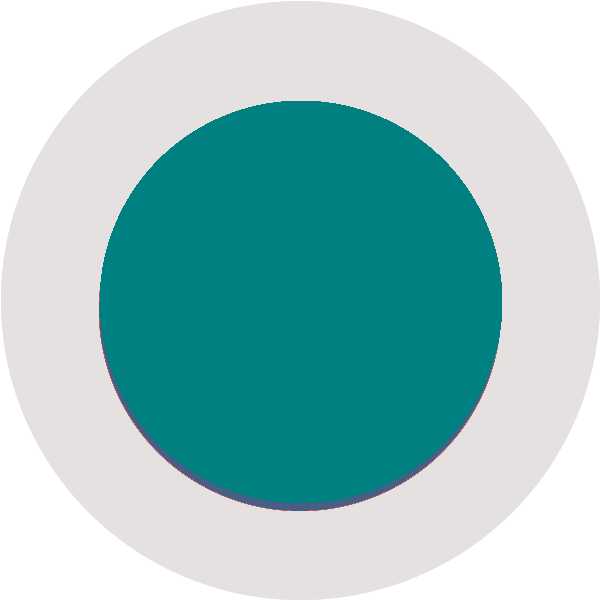
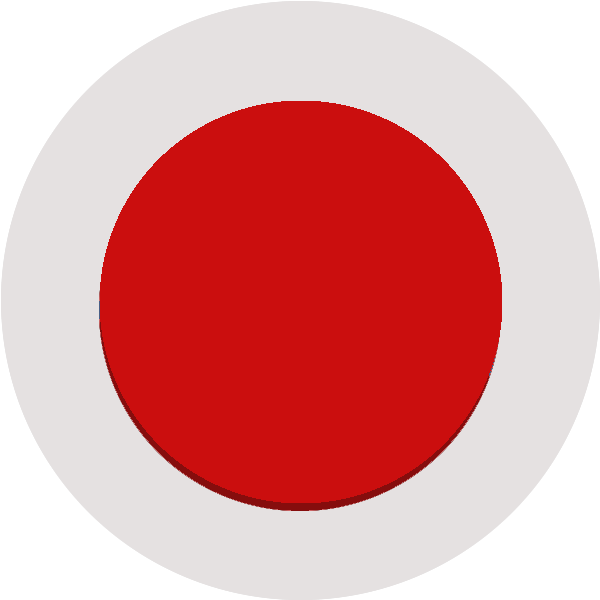
feat(major UI redesign) - change up waliif to not be similar to Safe

diff --git a/lib/controller/dialogs/trip_summary_dialog.dart b/lib/controller/dialogs/trip_summary_dialog.dart
@@ -1,5 +1,6 @@
 import 'package:flutter/material.dart';
 import 'package:safe/controller/ui_helpers.dart';
+import 'package:safe/models/color_constants.dart';
 import 'package:safe/models/ride_request.dart';
 import 'package:safe/utils/alpha_numeric_utils.dart';
 import 'package:flutter_gen/gen_l10n/safe_localizations.dart';
@@ -53,7 +54,7 @@ class _TripCompletionDialogState extends State<TripCompletionDialog> {
         SizedBox(height: 10.0),
         Row(
           children: [
-            Icon(Icons.location_on, color: Colors.orangeAccent),
+            Icon(Icons.location_on, color: ColorConstants.gucciColor),
             SizedBox(width: 15.0),
             Text(
               widget.rideRequest.pickup_address_name,
@@ -68,7 +69,7 @@ class _TripCompletionDialogState extends State<TripCompletionDialog> {
         SizedBox(height: 10.0),
         Row(
           children: [
-            Icon(Icons.location_on, color: Colors.orangeAccent),
+            Icon(Icons.location_on, color: ColorConstants.gucciColor),
             SizedBox(width: 15.0),
             Text(
               widget.rideRequest.dropoff_address_name,
@@ -103,7 +104,7 @@ class _TripCompletionDialogState extends State<TripCompletionDialog> {
         Row(
           mainAxisAlignment: MainAxisAlignment.spaceBetween,
           children: [
-            Icon(Icons.location_on, color: Colors.orangeAccent),
+            Icon(Icons.location_on, color: ColorConstants.gucciColor),
             SizedBox(width: 5.0),
             Text(
               SafeLocalizations.of(context)!
@@ -125,7 +126,7 @@ class _TripCompletionDialogState extends State<TripCompletionDialog> {
         Row(
           mainAxisAlignment: MainAxisAlignment.spaceBetween,
           children: [
-            Icon(Icons.timer, color: Colors.orangeAccent),
+            Icon(Icons.timer, color: ColorConstants.gucciColor),
             SizedBox(width: 5.0),
             Text(
               SafeLocalizations.of(context)!.dialog_trip_summary_ride_time,
@@ -147,7 +148,7 @@ class _TripCompletionDialogState extends State<TripCompletionDialog> {
         Row(
           mainAxisAlignment: MainAxisAlignment.spaceBetween,
           children: [
-            Icon(Icons.attach_money_outlined, color: Colors.orangeAccent),
+            Icon(Icons.attach_money_outlined, color: ColorConstants.gucciColor),
             SizedBox(width: 5.0),
             Text(
               SafeLocalizations.of(context)!
@@ -184,7 +185,7 @@ class _TripCompletionDialogState extends State<TripCompletionDialog> {
         children: [
           // Dialog Header
           Container(
-            color: Colors.teal.shade600,
+            color: Colors.black,
             padding: EdgeInsets.symmetric(vertical: 16.0),
             child: Center(
               child: Text(
@@ -219,7 +220,7 @@ class _TripCompletionDialogState extends State<TripCompletionDialog> {
                           TripCompletionDialog.DIALOG_RESULT_OKAY_PRESSED);
                     },
                     style: ElevatedButton.styleFrom(
-                        primary: Colors.deepOrangeAccent),
+                        primary: ColorConstants.gucciColor),
                     child: Container(
                       padding: EdgeInsets.symmetric(vertical: 16.0),
                       width: double.infinity,

diff --git a/lib/controller/bottom_sheets/base_bottom_sheet.dart b/lib/controller/bottom_sheets/base_bottom_sheet.dart
@@ -20,7 +20,7 @@ abstract class BaseBottomSheet extends StatefulWidget {
     this.fixedToBottom = false,
   }) : super(key: key);
 
-  double bottomSheetHeight();
+  double bottomSheetHeight(BuildContext context);
 
   double topCornerRadius();
 
@@ -41,18 +41,8 @@ abstract class BaseBottomSheet extends StatefulWidget {
     double padding = screenWidth * 0.02; // 2% of screen width
     double offset = fixedToBottom || (showBottomSheet == false) ? 0 : padding;
 
-    BorderRadius radius;
-
-    if (fixedToBottom) {
-      radius = BorderRadius.only(
-          topLeft: Radius.circular(topCornerRadius()),
-          topRight: Radius.circular(topCornerRadius()));
-    } else {
-      radius = BorderRadius.all(Radius.circular(topCornerRadius()));
-    }
-
     return Positioned(
-      bottom: offset * 2.5,
+      bottom: offset * 1.5,
       left: offset,
       right: offset,
       child: AnimatedSize(
@@ -60,12 +50,11 @@ abstract class BaseBottomSheet extends StatefulWidget {
         curve: Curves.bounceIn,
         duration: Duration(milliseconds: animationDuration()),
         child: Container(
-          height: showBottomSheet ? bottomSheetHeight() : 0,
+          height: showBottomSheet ? bottomSheetHeight(context) : 0,
           decoration: (showBottomSheet == false)
               ? null
               : BoxDecoration(
                   color: Colors.white,
-                  borderRadius: radius,
                   boxShadow: [
                     BoxShadow(
                       color: Colors.grey.shade500,

diff --git a/lib/controller/bottom_sheets/select_dropoff_pin.dart b/lib/controller/bottom_sheets/select_dropoff_pin.dart
@@ -5,6 +5,7 @@ import 'package:provider/provider.dart';
 import 'package:safe/controller/bottom_sheets/base_bottom_sheet.dart';
 import 'package:safe/controller/bottom_sheets/destination_picker_bottom_sheet.dart';
 import 'package:safe/models/address.dart';
+import 'package:safe/models/color_constants.dart';
 import 'package:safe/models/google_place_description.dart';
 import 'package:safe/pickup_and_dropoff_locations.dart';
 import 'package:safe/utils/google_api_util.dart';
@@ -36,8 +37,8 @@ class SelectDropOffPinBottomSheet extends BaseBottomSheet {
         );
 
   @override
-  double bottomSheetHeight() {
-    return DestinationPickerBottomSheet.HEIGHT_DESTINATION_SELECTOR;
+  double bottomSheetHeight(BuildContext context) {
+    return MediaQuery.of(context).size.height;
   }
 
   @override
@@ -197,7 +198,7 @@ class _SetPickupBottomSheet extends BaseBottomSheet {
         ) {}
 
   @override
-  double bottomSheetHeight() {
+  double bottomSheetHeight(BuildContext context) {
     return HEIGHT_SET_PICKUP;
   }
 
@@ -270,7 +271,7 @@ class _SetPickupBottomSheetState extends State<_SetPickupBottomSheet>
             style: TextButton.styleFrom(
               padding: EdgeInsets.symmetric(horizontal: 45.0, vertical: 20.0),
               backgroundColor: widget.destinationAddress != null
-                  ? Colors.orange.shade800
+                  ? ColorConstants.gucciColor
                   : Colors.grey.shade700,
               shape: RoundedRectangleBorder(
                 borderRadius: BorderRadius.circular(35.0),

diff --git a/lib/controller/dialogs/ride_cancellation_dialog.dart b/lib/controller/dialogs/ride_cancellation_dialog.dart
@@ -4,6 +4,7 @@ import 'package:flutter/material.dart';
 import 'package:safe/controller/custom_progress_dialog.dart';
 import 'package:safe/controller/ui_helpers.dart';
 import 'package:safe/models/FIREBASE_PATHS.dart';
+import 'package:safe/models/color_constants.dart';
 import 'package:safe/models/ride_request.dart';
 import 'package:flutter_gen/gen_l10n/safe_localizations.dart';
 
@@ -85,7 +86,7 @@ class _RideCancellationDialogState extends State<RideCancellationDialog> {
         children: [
           // Dialog Header
           Container(
-            color: Colors.teal.shade600,
+            color: Colors.black,
             padding: EdgeInsets.symmetric(vertical: 16.0),
             child: Center(
               child: Text(
@@ -130,7 +131,7 @@ class _RideCancellationDialogState extends State<RideCancellationDialog> {
             child: TextButton(
               style: TextButton.styleFrom(
                 padding: EdgeInsets.symmetric(horizontal: 35.0, vertical: 20.0),
-                backgroundColor: Colors.grey.shade600,
+                backgroundColor: ColorConstants.gucciColor,
                 shape: RoundedRectangleBorder(
                   borderRadius: BorderRadius.circular(35.0),
                 ),

diff --git a/lib/controller/bottom_sheets/confirm_ride_details_bottom_sheet.dart b/lib/controller/bottom_sheets/confirm_ride_details_bottom_sheet.dart
@@ -2,6 +2,7 @@ import 'package:flutter/material.dart';
 import 'package:font_awesome_flutter/font_awesome_flutter.dart';
 import 'package:provider/provider.dart';
 import 'package:safe/controller/bottom_sheets/base_bottom_sheet.dart';
+import 'package:safe/models/color_constants.dart';
 import 'package:safe/models/route_details.dart';
 import 'package:safe/pickup_and_dropoff_locations.dart';
 import 'package:safe/utils/alpha_numeric_utils.dart';
@@ -28,7 +29,7 @@ class ConfirmRideDetailsBottomSheet extends BaseBottomSheet {
         );
 
   @override
-  double bottomSheetHeight() {
+  double bottomSheetHeight(BuildContext context) {
     return HEIGHT_RIDE_DETAILS;
   }
 
@@ -105,7 +106,7 @@ class _ConfirmRideDetailsBottomSheetState
           TextButton(
             style: TextButton.styleFrom(
               padding: EdgeInsets.symmetric(horizontal: 35.0, vertical: 20.0),
-              backgroundColor: Colors.orange.shade800,
+              backgroundColor: ColorConstants.gucciColor,
               shape: RoundedRectangleBorder(
                 borderRadius: BorderRadius.circular(35.0),
               ),

diff --git a/lib/controller/bottom_sheets/trip_details_bottom_sheet.dart b/lib/controller/bottom_sheets/trip_details_bottom_sheet.dart
@@ -5,6 +5,7 @@ import 'package:geolocator/geolocator.dart';
 import 'package:google_maps_flutter/google_maps_flutter.dart';
 import 'package:safe/controller/bottom_sheets/base_bottom_sheet.dart';
 import 'package:safe/controller/ui_helpers.dart';
+import 'package:safe/models/color_constants.dart';
 import 'package:safe/models/driver.dart';
 import 'package:safe/models/ride_request.dart';
 import 'package:safe/utils/alpha_numeric_utils.dart';
@@ -42,7 +43,7 @@ class TripDetailsBottomSheet extends BaseBottomSheet {
         );
 
   @override
-  double bottomSheetHeight() {
+  double bottomSheetHeight(BuildContext context) {
     return HEIGHT_TRIP_DETAILS;
   }
 
@@ -73,7 +74,7 @@ class _TripDetailsBottomSheetState extends State<TripDetailsBottomSheet>
           SizedBox(height: 10.0),
           Row(
             children: [
-              Icon(Icons.location_on, color: Colors.orangeAccent),
+              Icon(Icons.location_on, color: ColorConstants.gucciColor),
               SizedBox(width: 15.0),
               Text(
                 widget.rideRequest!.dropoff_address_name,

diff --git a/lib/controller/bottom_sheets/where_to_bottom_sheet.dart b/lib/controller/bottom_sheets/where_to_bottom_sheet.dart
@@ -1,6 +1,7 @@
 import 'package:flutter/material.dart';
 import 'package:provider/provider.dart';
 import 'package:safe/controller/bottom_sheets/base_bottom_sheet.dart';
+import 'package:safe/models/color_constants.dart';
 import 'package:safe/pickup_and_dropoff_locations.dart';
 import 'package:flutter_gen/gen_l10n/safe_localizations.dart';
 
@@ -21,7 +22,7 @@ class WhereToBottomSheet extends BaseBottomSheet {
         );
 
   @override
-  double bottomSheetHeight() {
+  double bottomSheetHeight(BuildContext context) {
     return HEIGHT_WHERE_TO;
   }
 
@@ -64,7 +65,7 @@ class _WhereToBottomSheetState extends State<WhereToBottomSheet>
           TextButton(
             style: TextButton.styleFrom(
               padding: EdgeInsets.symmetric(horizontal: 15.0, vertical: 20.0),
-              backgroundColor: Colors.orange.shade800,
+              backgroundColor: ColorConstants.gucciColor,
               textStyle: const TextStyle(fontSize: 20, color: Colors.white),
               shape: RoundedRectangleBorder(
                 borderRadius: BorderRadius.circular(35.0),

diff --git a/lib/controller/bottom_sheets/driver_picked_bottom_sheet.dart b/lib/controller/bottom_sheets/driver_picked_bottom_sheet.dart
@@ -1,6 +1,7 @@
 import 'package:flutter/material.dart';
 import 'package:flutter/painting.dart';
 import 'package:safe/controller/bottom_sheets/base_bottom_sheet.dart';
+import 'package:safe/models/color_constants.dart';
 import 'package:safe/models/driver.dart';
 import 'package:flutter_gen/gen_l10n/safe_localizations.dart';
 
@@ -25,7 +26,7 @@ class DriverPickedBottomSheet extends BaseBottomSheet {
         );
 
   @override
-  double bottomSheetHeight() {
+  double bottomSheetHeight(BuildContext context) {
     return HEIGHT_DRIVER_PICKED;
   }
 
@@ -74,7 +75,7 @@ class _DriverPickedBottomSheetState extends State<DriverPickedBottomSheet>
           TextButton(
             style: TextButton.styleFrom(
               padding: EdgeInsets.symmetric(horizontal: 35.0, vertical: 20.0),
-              backgroundColor: Colors.orange.shade800,
+              backgroundColor: ColorConstants.gucciColor,
               shape: RoundedRectangleBorder(
                 borderRadius: BorderRadius.circular(35.0),
               ),

diff --git a/lib/controller/bottom_sheets/searching_for_driver_bottom_sheet.dart b/lib/controller/bottom_sheets/searching_for_driver_bottom_sheet.dart
@@ -20,7 +20,7 @@ class SearchingForDriverBottomSheet extends BaseBottomSheet {
         );
 
   @override
-  double bottomSheetHeight() {
+  double bottomSheetHeight(BuildContext context) {
     return HEIGHT_SEARCHING_FOR_DRIVER;
   }
 

diff --git a/lib/controller/bottom_sheets/destination_picker_bottom_sheet.dart b/lib/controller/bottom_sheets/destination_picker_bottom_sheet.dart
@@ -31,7 +31,7 @@ class DestinationPickerBottomSheet extends BaseBottomSheet {
         );
 
   @override
-  double bottomSheetHeight() {
+  double bottomSheetHeight(BuildContext context) {
     return HEIGHT_DESTINATION_SELECTOR;
   }
 

diff --git a/lib/controller/bottom_sheets/driver_to_pickup_bottom_sheet.dart b/lib/controller/bottom_sheets/driver_to_pickup_bottom_sheet.dart
@@ -28,7 +28,7 @@ class DriverToPickupBottomSheet extends BaseBottomSheet {
         );
 
   @override
-  double bottomSheetHeight() {
+  double bottomSheetHeight(BuildContext context) {
     return HEIGHT_DRIVER_ON_WAY_TO_PICKUP;
   }
 

diff --git a/lib/models/color_constants.dart b/lib/models/color_constants.dart
@@ -1,0 +1,5 @@
+import 'package:flutter/material.dart';
+
+class ColorConstants {
+  static const Color gucciColor = Color.fromARGB(255, 207, 17, 10);
+}
